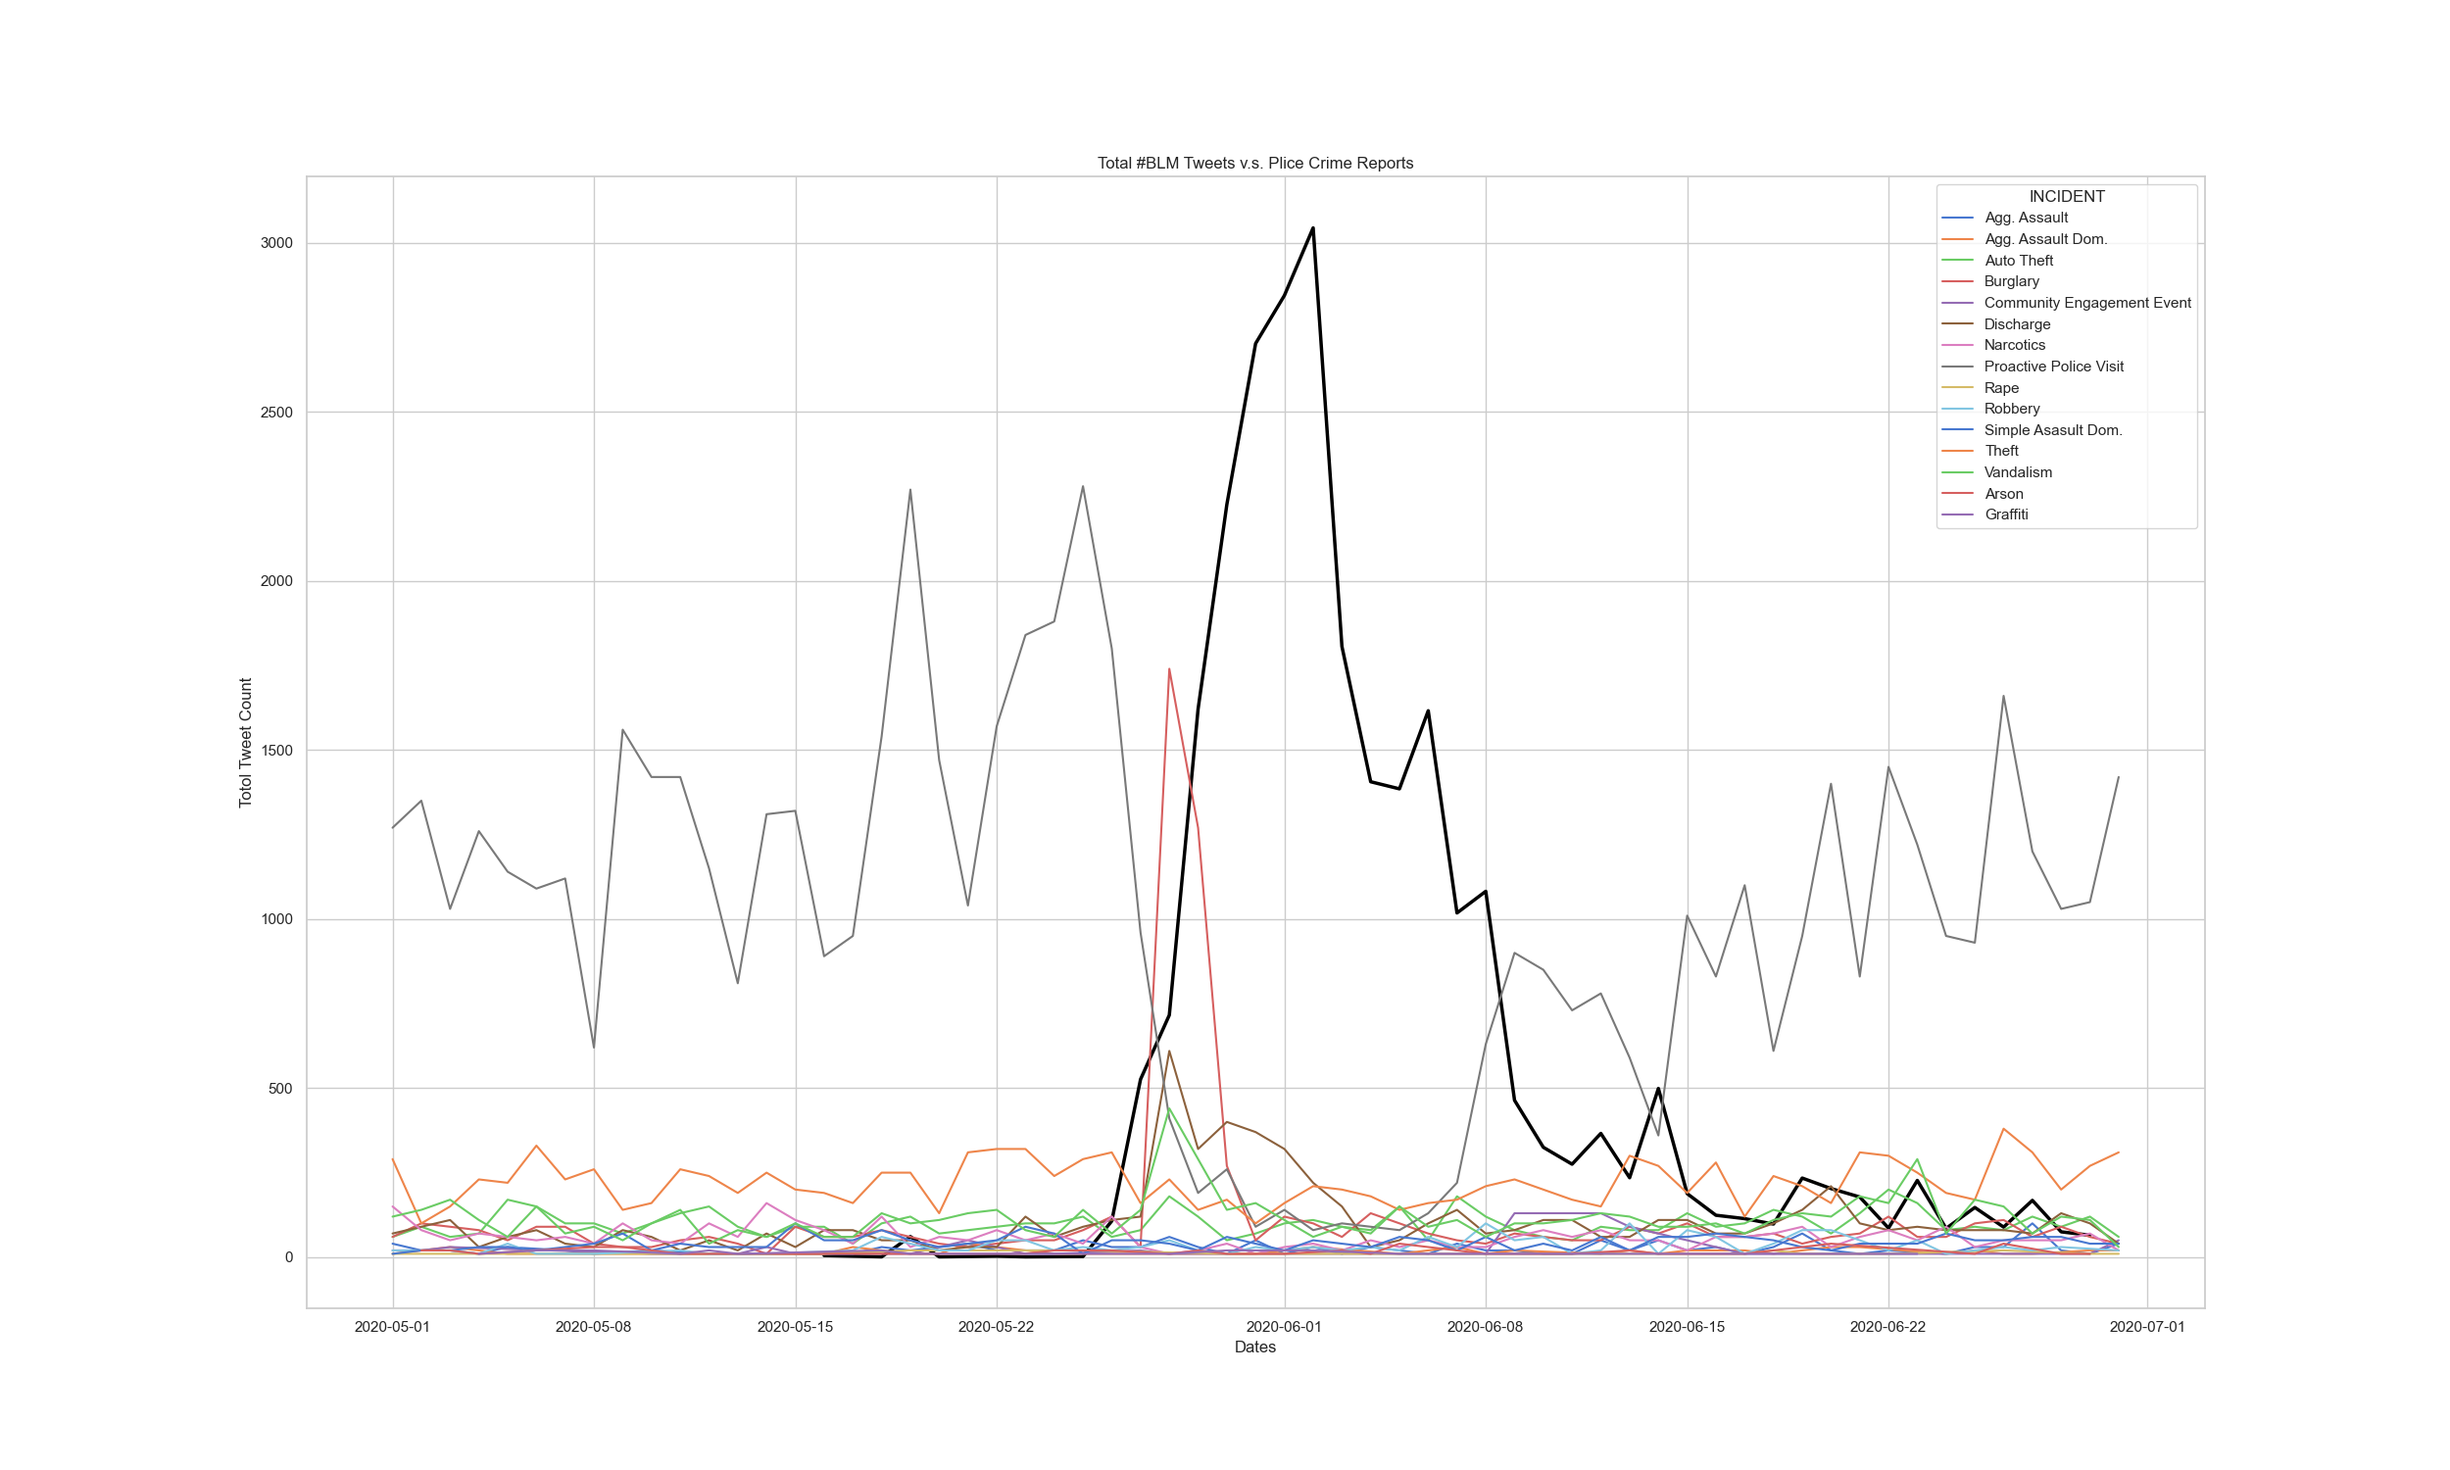
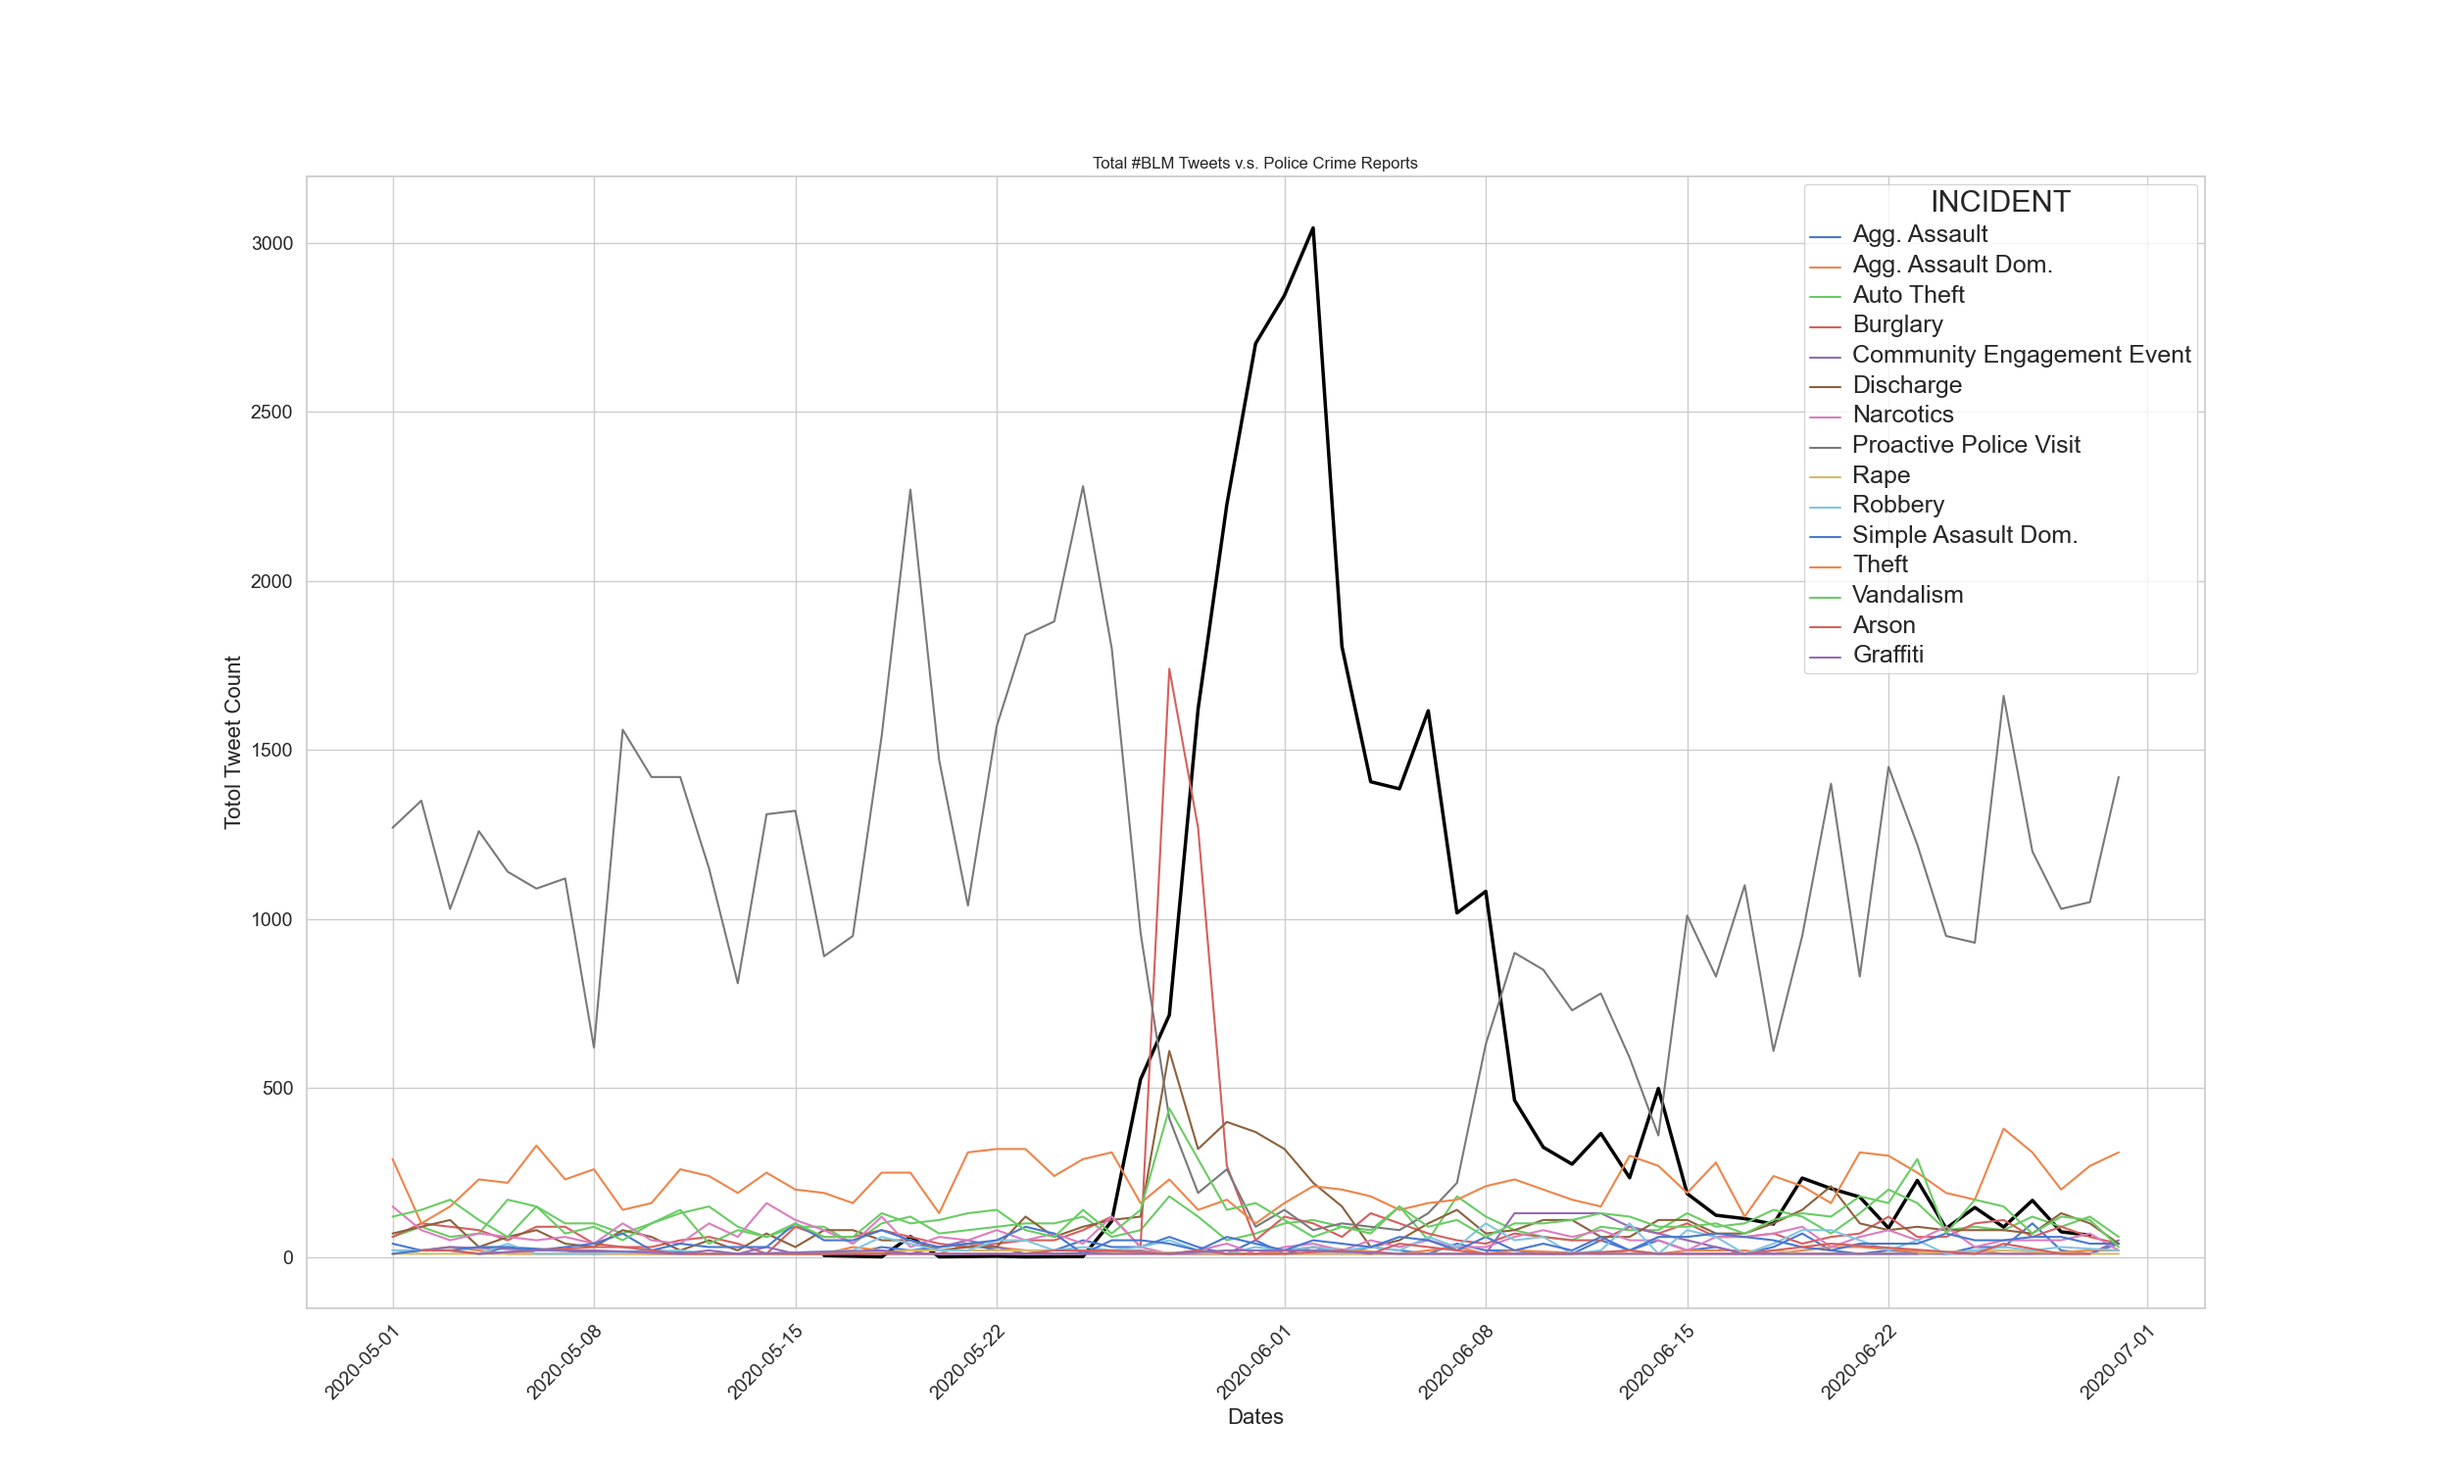
a

diff --git a/Benchmark/MinneapolisPoliceStopDataset/0_process.py b/Benchmark/MinneapolisPoliceStopDataset/0_process.py
@@ -44,7 +44,7 @@ end_date = DateHelper.get_datetime64(focus_to_date, source_date_format)
 df = df.loc[(df['responseDate'] >= start_date) & (df['responseDate'] <= end_date)]
 df['responseDate'] = df['responseDate'].apply(lambda x: datetime.strptime(str(x), DateHelper.standard_date_format).date())
 df_group = df[["responseDate", "masterIncidentNumber", "reason"]].groupby(["responseDate", "reason"], as_index=False).count()
-df_group["masterIncidentNumber"] = df_group["masterIncidentNumber"]*10
+df_group["masterIncidentNumber"] = df_group["masterIncidentNumber"]*15
 
 # GENERATE CHART TO COMPARE WITH MINESOTA DATA
 primary_df = get_blm_minesota(start_date, end_date)
@@ -59,10 +59,17 @@ fig, ax = plt.subplots(figsize=(25, 15))
 # CREATE LINE PLOT FROM PRIMARY DATA
 fig = sns.lineplot(y="tweet_id", x="tweet_created_date", data=primary_df_group, ax=ax, linewidth=2.5, color='#000000')
 fig.set(ylabel="Totol Tweet Count", xlabel="Dates")
+fig.set_xlabel(fig.get_xlabel(), fontsize=16)
+fig.set_ylabel(fig.get_ylabel(), fontsize=16)
 
 # CREATE SCATTER PLOT FROM SECONDARY DATA
 fig = sns.lineplot(x="responseDate", y="masterIncidentNumber", hue="reason", palette="muted", data=df_group)
 
-plt.title("Total #BLM Tweets v.s. Plice Crime Reports")
+plt.setp(ax.get_xticklabels(), rotation=45, ha="right", rotation_mode="anchor", fontsize='14')
+plt.setp(ax.get_yticklabels(), rotation_mode="anchor",  fontsize='14')
+plt.setp(fig.get_legend().get_texts(), fontsize='18')
+plt.setp(fig.get_legend().get_title(), fontsize='22')
+
+plt.title("Total #BLM Tweets v.s. Police Stops")
 plt.savefig("{}img/lineplot_comparison.png".format(dir_path))
 plt.close()

diff --git a/Benchmark/CrimeIncidentDataset/0_process.py b/Benchmark/CrimeIncidentDataset/0_process.py
@@ -60,10 +60,17 @@ fig, ax = plt.subplots(figsize=(25, 15))
 # CREATE LINE PLOT FROM PRIMARY DATA
 fig = sns.lineplot(y="tweet_id", x="tweet_created_date", data=primary_df_group, ax=ax, linewidth=2.5, color='#000000')
 fig.set(ylabel="Totol Tweet Count", xlabel="Dates")
+fig.set_xlabel(fig.get_xlabel(), fontsize=16)
+fig.set_ylabel(fig.get_ylabel(), fontsize=16)
 
 # CREATE SCATTER PLOT FROM SECONDARY DATA
 fig = sns.lineplot(x="DATE", y="CASE NUMBER", hue="INCIDENT", palette="muted", data=df_group)
 
-plt.title("Total #BLM Tweets v.s. Plice Crime Reports")
+plt.setp(ax.get_xticklabels(), rotation=45, ha="right", rotation_mode="anchor", fontsize='14')
+plt.setp(ax.get_yticklabels(), rotation_mode="anchor",  fontsize='14')
+plt.setp(fig.get_legend().get_texts(), fontsize='18')
+plt.setp(fig.get_legend().get_title(), fontsize='22')
+
+plt.title("Total #BLM Tweets v.s. Police Crime Reports")
 plt.savefig("{}img/lineplot_comparison.png".format(dir_path))
 plt.close()
